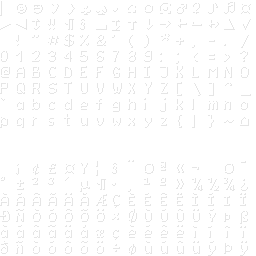
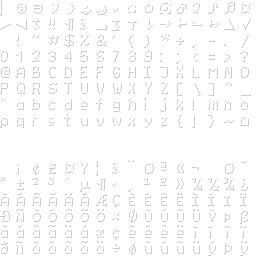
font shadow is a bit stronger and halfpixeloffset method added to prevent artifacts at char-borders

diff --git a/SoftwareEngineering/TextVenturer/DisplayChar.cpp b/SoftwareEngineering/TextVenturer/DisplayChar.cpp
@@ -48,24 +48,27 @@ void DisplayChar::getData(Data data[6])
     vec2 up = (s * vec2(0, 1) * baseScale).rotate(r);
 
     float w = font->getWidth(c) * 2;
-    data[0].pos = p - right - up;
-    data[0].color = color;
-    data[0].texcoord = font->getTexCoord(c, vec2(0, 0));
-    data[1].pos = p + right - up;
-    data[1].color = color;
-    data[1].texcoord = font->getTexCoord(c, vec2(w, 0));
-    data[2].pos = p + right + up;
-    data[2].color = color;
-    data[2].texcoord = font->getTexCoord(c, vec2(w, 1));
-    data[3].pos = p + right + up;
-    data[3].color = color;
-    data[3].texcoord = font->getTexCoord(c, vec2(w, 1));
-    data[4].pos = p - right + up;
-    data[4].color = color;
-    data[4].texcoord = font->getTexCoord(c, vec2(0, 1));
-    data[5].pos = p - right - up;
-    data[5].color = color;
-    data[5].texcoord = font->getTexCoord(c, vec2(0, 0));
+
+    static const vec2 quadSide[] = {
+        vec2(0, 0),
+        vec2(1, 0),
+        vec2(1, 1),
+        vec2(1, 1),
+        vec2(0, 1),
+        vec2(0, 0)
+    };
+
+    vec2 lb = font->getTexCoord(c, vec2(0, 0)) + vec2(font->getPixelWidth(), font->getPixelWidth()) / 2;
+    vec2 hb = font->getTexCoord(c, vec2(w, 1)) - vec2(font->getPixelWidth(), font->getPixelWidth()) / 2;
+    for (byte s = 0; s < 6; s++)
+    {
+        vec2 middleQuadSide = quadSide[s] * 2 - 1;
+        data[s].pos = p + right * middleQuadSide.x + up * middleQuadSide.y;
+        data[s].color = color;
+        data[s].texcoord = font->getTexCoord(c, vec2(quadSide[s].x * w, quadSide[s].y));
+        data[s].borderlow = lb;
+        data[s].borderhigh = hb;
+    }
 }
 
 DisplayChar::DisplayChar(VAO* vao, BMPFont* font, int vaoOffset, vec2 defaultPos, float baseScale, float aspect)

diff --git a/SoftwareEngineering/TextVenturer/Game.cpp b/SoftwareEngineering/TextVenturer/Game.cpp
@@ -22,6 +22,9 @@ Game::Game(GLWindow* w)
     textShader->addAttribute(2, "vpos");
     textShader->addAttribute(2, "vtexcoord");
     textShader->addAttribute(4, "vcolor");
+    textShader->addAttribute(2, "vborderlow");
+    textShader->addAttribute(2, "vborderhigh");
+
    
     font = new BMPFont();
     font->loadFromPNG("data/font/font.png");
@@ -36,8 +39,10 @@ Game::Game(GLWindow* w)
     if (window->isMultisampled())
         controler->write("$delay(0)$yellow()DEBUG: $light_gray()Multisampling: $lime()" + to_string(window->getSamples()));
     else
-        controler->write("$delay(0)$yellow()DEBUG: $light_gray()Multisampling: $red()not supported");
-    
+        controler->write("$delay(0)$yellow()DEBUG: $light_gray()Multisampling: $red()disabled");
+
+    //controler->write("$delay(0)$shaking_on()This line hopefully contains some chars with ugly border, so I can test it.");
+
     window->setVSync(false);
 
     controler->DEBUG_startAdventure();

diff --git a/SoftwareEngineering/TextVenturer/Texture.cpp b/SoftwareEngineering/TextVenturer/Texture.cpp
@@ -15,8 +15,8 @@ Texture::Texture()
     
     bind();
 
-    glTexParameteri(GL_TEXTURE_2D, GL_TEXTURE_MAG_FILTER, magNearest);
-    glTexParameteri(GL_TEXTURE_2D, GL_TEXTURE_MIN_FILTER, minNearest);
+    glTexParameteri(GL_TEXTURE_2D, GL_TEXTURE_MAG_FILTER, magLinear);
+    glTexParameteri(GL_TEXTURE_2D, GL_TEXTURE_MIN_FILTER, minLinear);
 }
 
 Texture::~Texture()

diff --git a/SoftwareEngineering/TextVenturer/BMPFont.cpp b/SoftwareEngineering/TextVenturer/BMPFont.cpp
@@ -72,3 +72,8 @@ vec2 BMPFont::getTexCoord(byte c, vec2 texcoord) const
     result.y = (15 - c / 16) / 16.0f + texcoord.y / 16;
     return result;
 }
+
+float BMPFont::getPixelWidth() const
+{
+    return 1.0f / (16 * size);
+}

diff --git a/SoftwareEngineering/TextVenturer/DisplayChar.h b/SoftwareEngineering/TextVenturer/DisplayChar.h
@@ -7,6 +7,8 @@ private:
         vec2 pos;
         vec2 texcoord;
         Color color;
+        vec2 borderlow;
+        vec2 borderhigh;
     };
 
     struct ShakeData {

diff --git a/SoftwareEngineering/TextVenturer/BMPFont.h b/SoftwareEngineering/TextVenturer/BMPFont.h
@@ -20,5 +20,6 @@ public:
     void uniform(Shader* shader, string name) const;
 
     vec2 getTexCoord(byte c, vec2 texcoord) const;
+    float getPixelWidth() const;
 };
 
